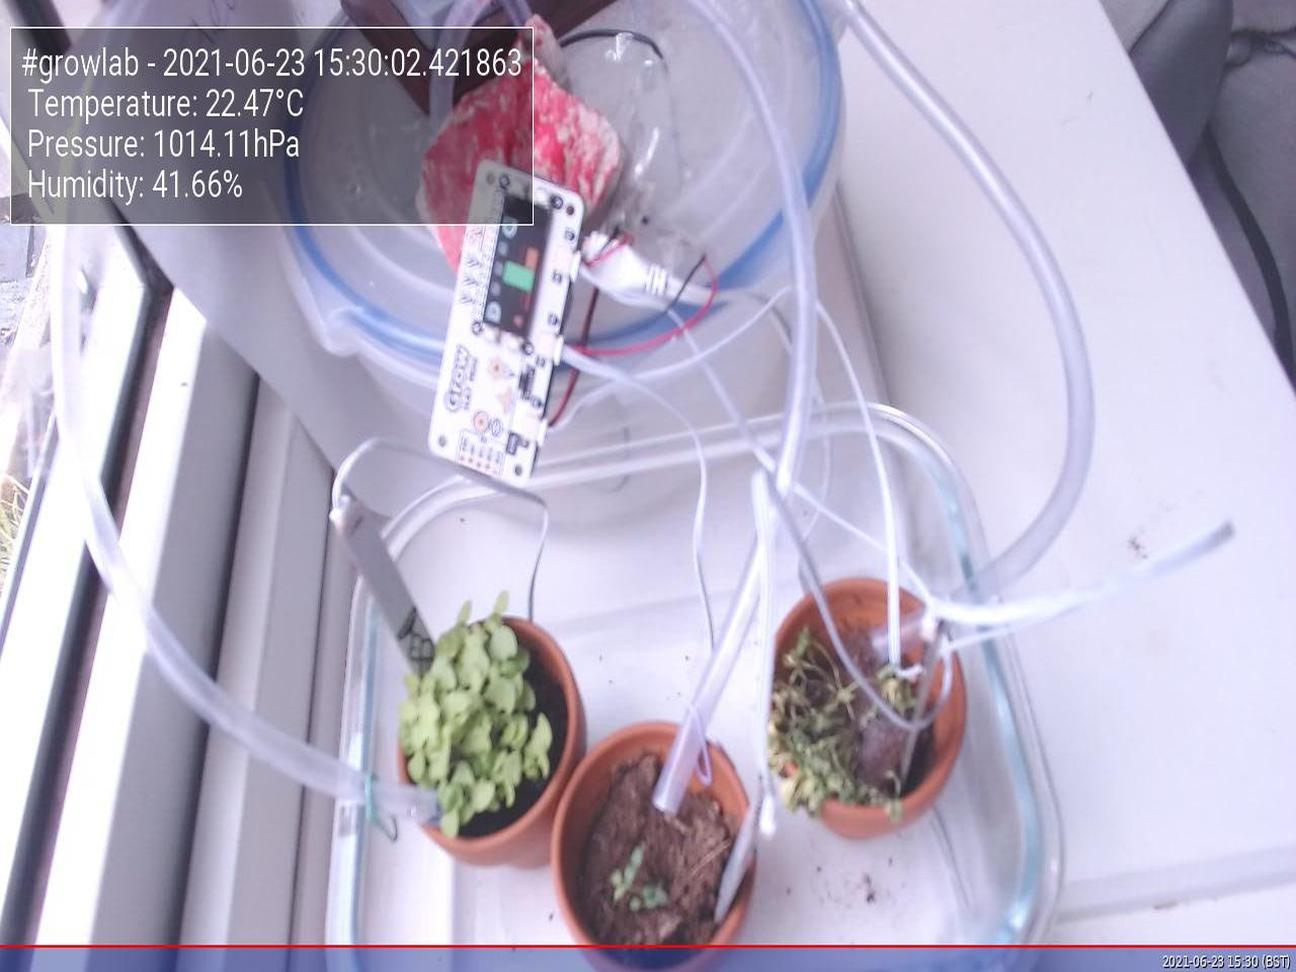
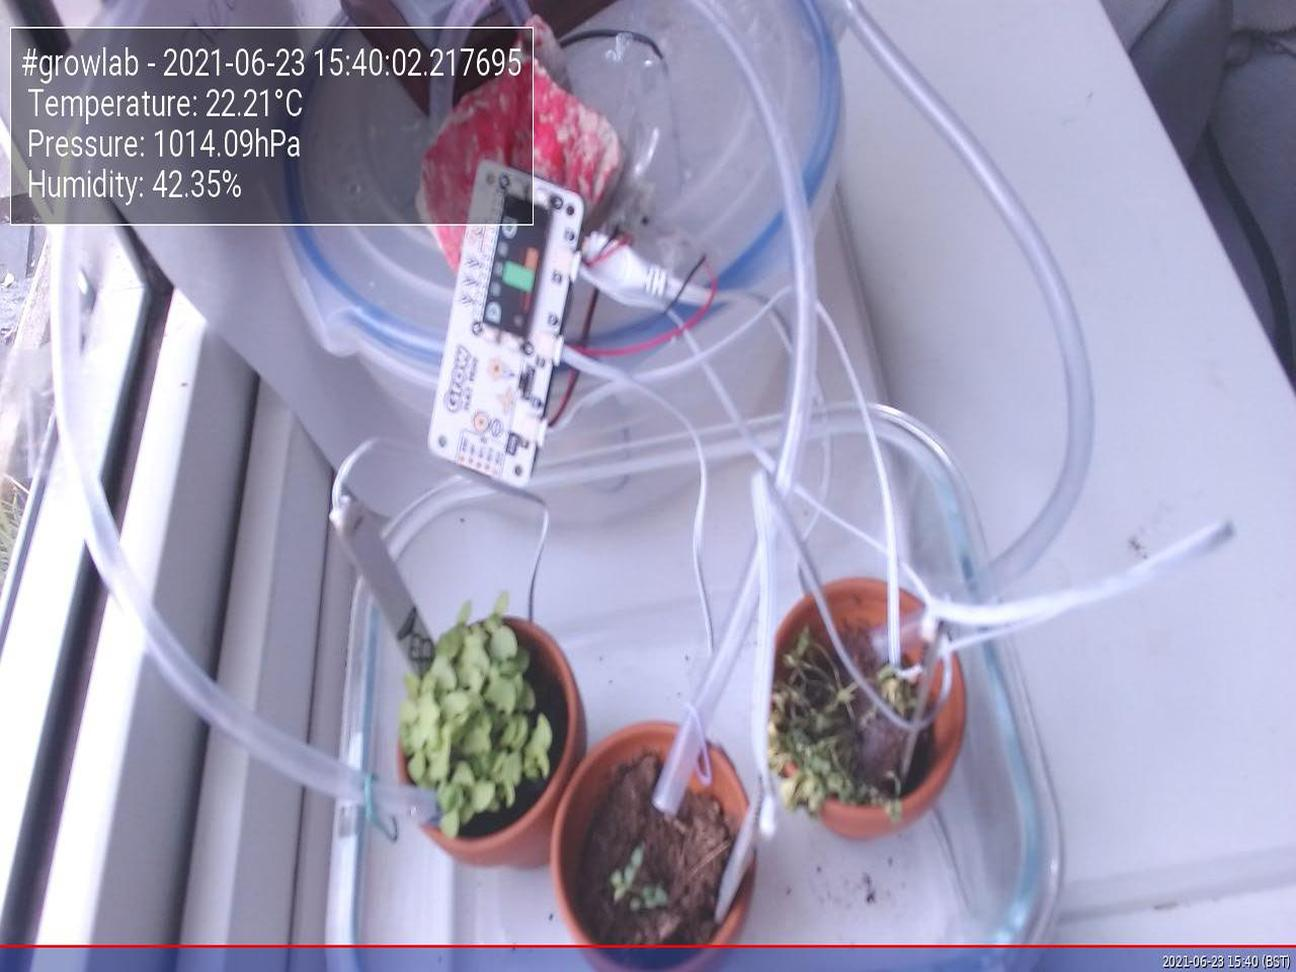
Update images at Wed 23 Jun 15:40:06 BST 2021

diff --git a/app/docs/index.html b/app/docs/index.html
@@ -47,19 +47,19 @@
                         <tbody>
                             <tr>
                                 <td>Time</td>
-                                <td>2021-06-23 15:30:02.421863</td>
+                                <td>2021-06-23 15:40:02.217695</td>
                             </tr>
                             <tr>
                                 <td>Temperature</td>
-                                <td>22.47°C</td>
+                                <td>22.21°C</td>
                             </tr>
                             <tr>
                                 <td>Humidity</td>
-                                <td>41.66%</td>
+                                <td>42.35%</td>
                             </tr>
                             <tr>
                                 <td>Pressure</td>
-                                <td>1014.11hPa</td>
+                                <td>1014.09hPa</td>
                             </tr>
                         </tbody>
                     </table>
@@ -67,7 +67,7 @@
 
                 <h5>Latest image</h5>
                 <div style="width: 85%;">
-                            <img class="figure-img img-fluid rounded" src="./preview.jpg?uid=1624458606.1819804">
+                            <img class="figure-img img-fluid rounded" src="./preview.jpg?uid=1624459205.9844246">
                 </div>
             </div>
         </div>
